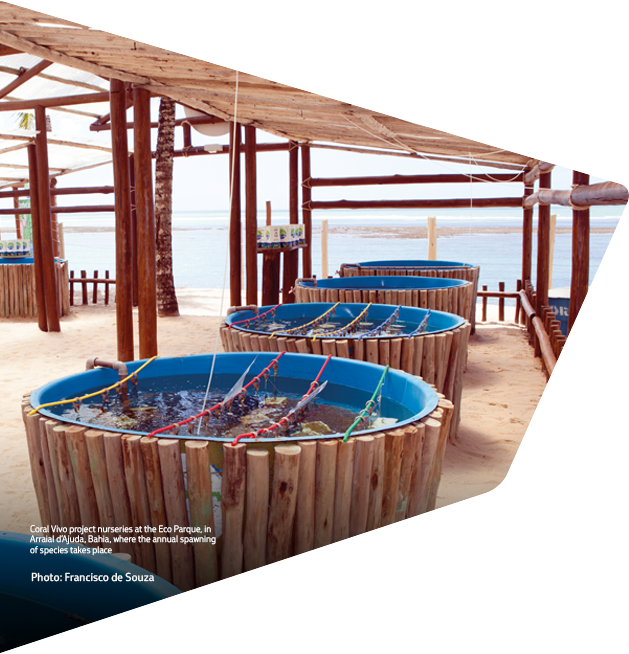
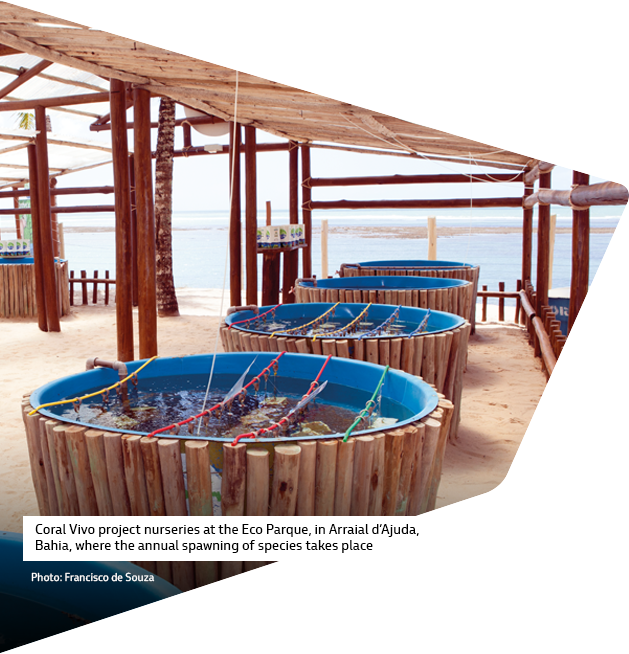
OvertheSeas
Ajustes en pie de fotos, titulos, y cajas, link a banco central, etc

Changed region(s): [[0.0302, 0.7645, 0.6645, 0.8563]]

diff --git a/overTheSeas/overtheseas.html b/overTheSeas/overtheseas.html
@@ -107,10 +107,28 @@
 							<img class="first-picture" src="imgs/foto-1.png">
 							<img class="second-picture" src="imgs/foto-2.png">
 							<img class="fourth-picture" src="imgs/foto-4.png">
+                            <div class="fourth-Txt-coral">
+								<article class="txtCol right-align" style="width:60%;">
+
+<h3>A close look at Brazilian coral</h3>
+<p>
+Coral Vivo is part of the “Biomar” network of marine biodiversity projects, and it is sponsored by Petrobras through the Petrobras Social and Environmental Program. The project works to conserve coral reefs and coral environments in Brazil, through knowledge generation, the spreading of information, environmental education, awareness raising and coordination with society, and collaboration toward the development and execution of public policies.</p>
+<p>
+Created by biologists Clovis Castro and Débora Pires, the Coral Vivo project was established at the National Museum at the Federal University of Rio de Janeiro, where they set out to study the processes of Brazilian coral reef structuring, formation and renewal. After the research had made some progress, in 2003 Coral Vivo became an official project and obtained financial support from the National Environmental Fund (FNMA). In 2006, Petrobras started to sponsor it as well.</p>
+<p>
+In its first two years, Coral Vivo established historic milestones in the biological and ecological knowledge of corals endemic to Brazil, such as the determination of specific periods for the annual spawning of species and the obtaining of thousands of coral offspring resulting from in vitro fertilization.</p>
+<p>
+In addition to on-site research, Coral Vivo also has a network of tanks to predict the reaction of corals to climate change in the sea. The “meso-cosmos,” as it is called, is the first system in Brazil to have a permanent link with the natural environment for studies related to marine variations, and the third in the world. The other meso-cosmoses are located in Australia and Mexico.<p>
+<p>
+The tanks are filled with natural sea water and then subjected to simulations of temperature and acidity variations to measure possible physiological alterations in the beings that live in the South Atlantic coral reefs. Studies are taking place in 16 tanks, which function as nurseries and undergo the researched alterations.</p>
+								</article>
+							</div>
+                            
 							<img class="fifth-picture" src="imgs/foto-5.png">
 							<img class="sixth-picture" src="imgs/foto-6.png">
 							<img class="seventh-picture" src="imgs/foto-7.png">
-
+                            
+                            
 							
 							
 
@@ -123,8 +141,7 @@
 
 							<div class="foto1-Caption">
 								<div class="fotoCaption">
-									<p>Coral reefs have become targets of scientific research
-									to produce drugs to combat bacteria, viruses and fungi</p>
+									<p>Coral reefs have become targets of scientific research to produce drugs to combat bacteria, viruses and fungi</p>
 								</div>
 							</div>
 
@@ -178,21 +195,23 @@
 								</article>
 							</div>
 							<div class="third-Txt">
-								<article class="txtCol left-align">
+								<article class="txtCol left-align" style="width:65%;">
 									<h3>THE INVESTIGATION</h3>
 									<p>The next stage of the research, led by biologists Simoni Campos Dias and Loiane Alves de Lima, took place in the UCB Genomic Sciences and Biotechnology Postgraduate Laboratory, in partnership with the National Museum of the Federal University of Rio de Janeiro (UFRJ) – part of the Coral Vivo Research Network, sponsored by the Petrobras Social and Environmental Program and Arraial d’Ajuda Eco Parque. </p>
 								    <p>The collected pieces of coral were ground down and put through a purification process to isolate the defensive protein of each species. After this, in vitro testing took place with these biomolecules in contact with seven bacteria available in the university laboratory: S. aureus, Streptococcus pyogenes, K. pneumoniae, E. coli, P. mirabilis, Shigella flexineri and Salmonella typhimurium. After 12 hours of contact, the elephant ear coral’s defensive substance had wiped out the KPC population. “In the very first tests we saw that the gorgonian substance had greater potential to fight KPC than the other corals. This protein may be a promising candidate for the creation of a new antibiotic to act against resistant bacteria,” says Loiane.</p>
+                                    <p> This research provided the basis for Loiane’s master’s thesis, “Identification of a Novel Antimicrobial Peptide from Brazilian Coast Coral Phyllogorgia dilatat,” published in scientific journal “Protein & Peptide Letters”, part of Bentham Science, a leading publisher in the field of global medicinal chemistry. According to biologist Simoni Campos, who orientated the study, there are reports of investigations into molecules extracted from marine animals such as corals and sponges to combat other types of bacteria elsewhere in the world, but there have not been any other investigations about KPC.</p>
 								</article>
 							</div>
 
 							<img class="third-picture" src="imgs/foto-3.png">
 
 
-							<div class="fourth-Txt">
-								<article class="txtCol left-align">
-									<p> This research provided the basis for Loiane’s master’s thesis, “Identification of a Novel Antimicrobial Peptide from Brazilian Coast Coral Phyllogorgia dilatat,” published in scientific journal “Protein & Peptide Letters”, part of Bentham Science, a leading publisher in the field of global medicinal chemistry. According to biologist Simoni Campos, who orientated the study, there are reports of investigations into molecules extracted from marine animals such as corals and sponges to combat other types of bacteria elsewhere in the world, but there have not been any other investigations about KPC.</p>
-								</article>
-							</div>
+	
+                            
+                            
+
+                            
+                            
 							
 							<img class="info-1-Header" src="imgs/infohead-1.png">
 							<div class="infografia-1">
@@ -202,7 +221,7 @@
 							<img class="info-1-Footer" src="imgs/infoFooter-1.png">
 
 							<div class="fifth-Txt">
-								<article class="txtCol right-align Slim">
+								<article class="txtCol right-align Slim" style="margin-left:61% !important;">
 									<p>“This is the first investigatory study of KPC. Furthermore, we have found that substances in elephant ear coral can also control the growth of Staphylococcus aureus, which causes skin diseases like impetigo, and Shigella flexneri, which generates dysentery, and which are also believed to contribute to infections acquired in the hospital environment,” explains Simoni.</p>
 									<p>
 									The next step in the research is to conclude whether the defensive protein comes from the coral itself or from a bacterium that lives in association with it. “Symbiosis means a mutually beneficial relationship in which two or more different organisms benefit from their association. For this reason, we cannot yet determine whether the substance really comes from the coral itself or from an organism that lives in association with it,” explains the biologist.</p>
@@ -227,7 +246,24 @@
 									</p>
 								</article>
 							</div>
-							
+                            
+                            
+                            <div class="r100-Txt">
+								<article class="txtCol right-align" style="width:60%;">
+                                
+
+<h3>R$100 note</h3>
+     <p>                       
+Elephant ear coral (Phyllogorgia dilatata) is shown on the current R$100 note, the largest denomination note in Brazil. The Coral Vivo project’s coordinators, Clovis Castro and Débora Pires, recommended this type of coral and other marine species shown on the note to the <a style="color:#00b3b0; text-decoration:none; " href="http://www.bcb.gov.br/novasnotas/nota-100-reais.html" target="_blank">Central Bank</a> and Mint. The new design is part of the second family of real notes, which started to be updated in 2010 and feature endemic Brazilian species on them.
+</p>
+</article>
+</div>
+
+
+                            
+                            <div class="tit_videos_seas">
+                            Learn more about the Brazilian reefs
+							</div>
 							<div class="video-1">
 								<iframe width="560" height="315" src="https://www.youtube.com/embed/YJwESgeDBis?rel=0" frameborder="0" allowfullscreen></iframe>
 							</div>

diff --git a/overTheSeas/css/overTS.css b/overTheSeas/css/overTS.css
@@ -31,7 +31,7 @@
 	font-family: 'petrobras_sansitalic';
 	text-shadow:none;
 	font-size: 1.15em;
-	color: black;
+	color: #fff;
 	padding: 1px 20px 1px 50px;
 	background-color: #00b3b0;
 	margin-top: 4px;
@@ -75,7 +75,7 @@ h3 {
 .second-picture{
 	position: absolute;
 	right: 0;
-	top: 3250px;
+	top: 3050px;
 }
 .third-picture{
 	position: absolute;
@@ -84,13 +84,13 @@ h3 {
 }
 .fourth-picture{
 	position: absolute;
-	right: 0;
-	top: 4200px;
+	left: 0;
+	top: 4400px;
 }
 .fifth-picture{
 	position: absolute;
 	right: 0;
-	top: 6900px;
+	top: 6600px;
 }
 .sixth-picture{
 	position: absolute;
@@ -100,7 +100,7 @@ h3 {
 .seventh-picture{
 	position: absolute;
 	right: 0;
-	top: 10700px;
+	top: 10500px;
 }
 
 /* |******|
@@ -126,12 +126,12 @@ h3 {
 .first-pleca{
 	position: absolute;
 	left: 0;
-	top: 8600px;
+	top: 8350px;
 }
 .second-pleca{
 	position: absolute;
 	left: 0;
-	top: 11400px;
+	top: 11050px;
 }
 
 
@@ -140,22 +140,22 @@ h3 {
    |********| */
 
 .foto1-Caption{
-	position: absolute;
-	top: 2700px;
-	left: 0px;
-	width: 40%;
+ position: absolute;
+    right: 39px;
+    top: 2740px;
+    width: 57%;
 }
 .foto5-Caption{
 	position: absolute;
-	top: 8350px;
+	top: 8050px;
 	left: 0px;
 	width: 40%;
 }
 .foto6-Caption{
-	position: absolute;
-	top: 9700px;
-	left: 60%;
-	width: 30%;
+ left: 0;
+    position: absolute;
+    top: 9809px;
+    width: 49%;
 }
 .foto7-Caption{
 	visibility: hidden;
@@ -170,17 +170,17 @@ h3 {
 
 .infografia-1{
 	position: absolute;
-	top: 7000px;
+	top: 7470px;
 	left: 0;
 }
 .info-1-Header{
 	position: absolute;
-	top: 6700px;
+	top: 7150px;
 	left: 35px;
 }
 .info-1-Footer{
 	position: absolute;
-	top: 7550px;
+	top: 8080px;
 	left: 35px;
 }
 
@@ -210,13 +210,26 @@ TxtCols
 	position: absolute;
 	top: 3950px;
 }
+
+.fourth-Txt-coral {
+position: absolute;
+    right: 77px;
+    top: 4300px;}
+
+.r100-Txt {
+	position: absolute;
+    right: 77px;
+      top: 14350px;
+	z-index:200;
+	}
+
 .fifth-Txt{
 	position: absolute;
 	top: 9800px;
 }
 .sixth-Txt{
 	position: absolute;
-	top: 13450px;
+	top: 13100px;
 }
 
 
@@ -233,3 +246,14 @@ TxtCols
 	top: 10400px;
 	left: 0px;
 }
+
+
+.tit_videos_seas {
+font-size: 22px;
+    left: 201px;
+    position: absolute;
+    top: 14940px;}
+	
+.fotoCaption p{
+	background-color:#FFF;
+	padding:5px 10px;}
